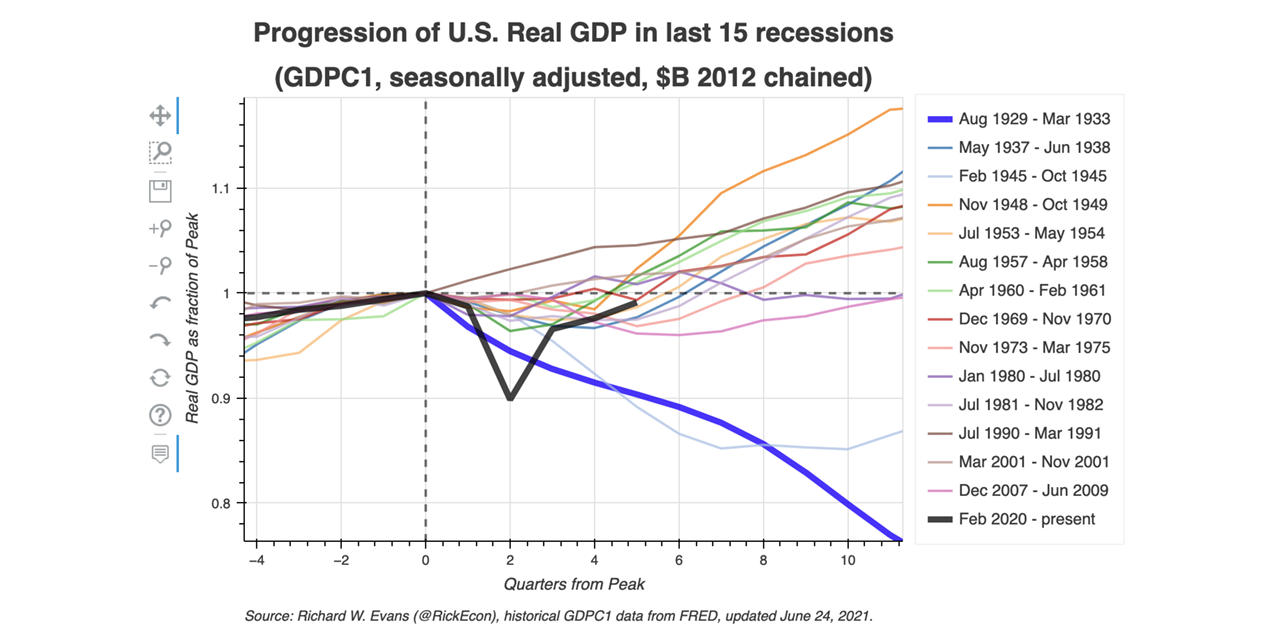
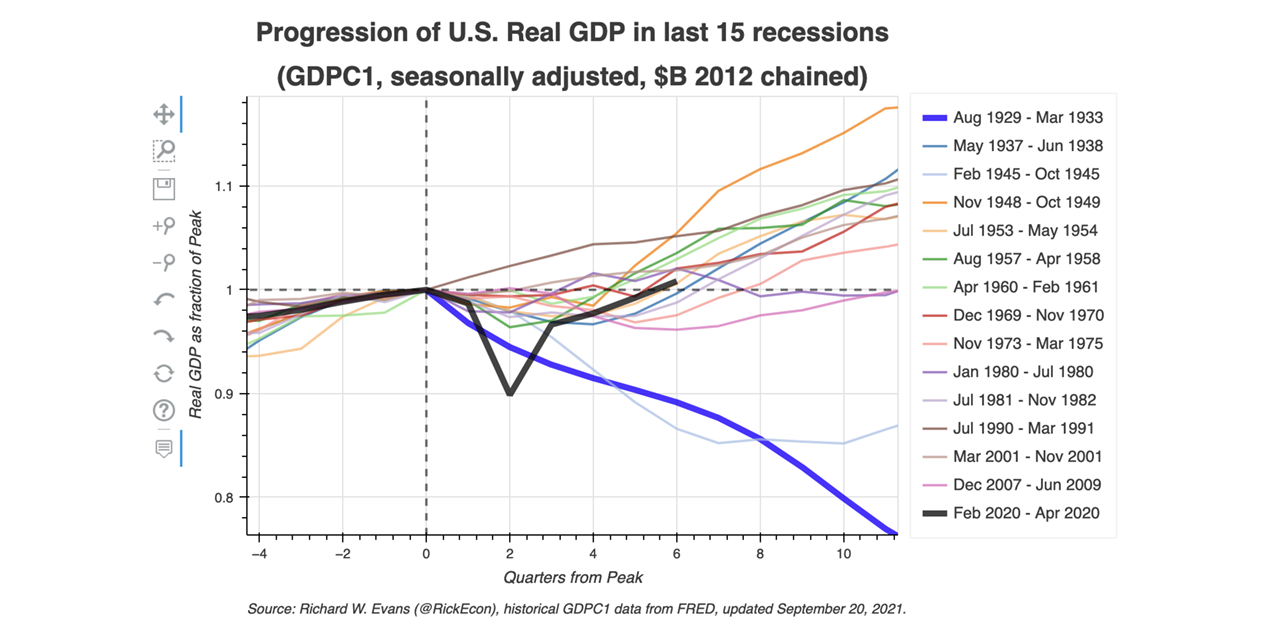
Updated .gitfig and readme_images/README.md

diff --git a/readme_images/README.md b/readme_images/README.md
@@ -1,9 +1,8 @@
 # Instructions for readme_images
-The images in this directory `USgdp_NormPeakPlot/readme_images/` are used in the main repository [`README.md`](README.md). However, one image is only used for the GitHub social preview image. GitHub suggests that this image should be 1280x640px for best display. The Bokeh image produced by the code is 1624x1030px. We do the following to resize the image.
+The images in this directory `USgdp_NormPeakPlot/readme_images/` are used in the main repository [`README.md`](README.md). However, one image is only used for the GitHub social preview image. GitHub suggests that this image should be 1280x640px for best display. The Bokeh image produced by the code is 1630x1042px. We do the following to resize the image.
 
 1. Open the image in Adobe Photoshop: **File** > **Open**
-2. Open the **Image** dialogue: **Image**
-3. Adjust the canvas size: **Image** > **Canvas Size**. Because the 1624x1030px image is taller than the optimal 1280x640px GitHub size, we first adjust the canvas size. We have to add some width. So here adjust the width to 2060px [`1030 * 2` or `1030 * (1280 / 640)`] and keep the height at 1030px.
-4. Adjust the image size: **Image** > **Image Size**. Now adjust the image size to the GitHub optimal 1280x640px. The dimesions will be correct and nothing will be stretched.
-5. Save the image as [`usgdp_npp_gitfig.png`](readme_images/usgdp_npp_gitfig.png).
-6. Upload the image [`usgdp_npp_gitfig.png`](readme_images/usgdp_npp_gitfig.png) as the GitHub social preview image by clicking on the [**Settings**](https://github.com/OpenSourceEcon/USgdp_NormPeakPlot/settings) button in the upper-right of the main page of the repository and uploading the formatted image [`usgdp_npp_gitfig.png`](readme_images/usgdp_npp_gitfig.png) in the **Social preview** section.
+2. Adjust the canvas size: **Image** > **Canvas Size**. Because the 1630x1042px image is taller than the optimal 1280x640px GitHub size, we first adjust the canvas size. We have to add some width. So here adjust the width to 2084px [`1042 * 2` or `1042 * (1280 / 640)`] and keep the height at 1042px.
+3. Adjust the image size: **Image** > **Image Size**. Now adjust the image size to the GitHub optimal 1280x640px. The dimesions will be correct and nothing will be stretched.
+4. Save the image as [`usgdp_npp_gitfig.png`](readme_images/usgdp_npp_gitfig.png).
+5. Upload the image [`usgdp_npp_gitfig.png`](readme_images/usgdp_npp_gitfig.png) as the GitHub social preview image by clicking on the [**Settings**](https://github.com/OpenSourceEcon/USgdp_NormPeakPlot/settings) button in the upper-right of the main page of the repository and uploading the formatted image [`usgdp_npp_gitfig.png`](readme_images/usgdp_npp_gitfig.png) in the **Social preview** section.
